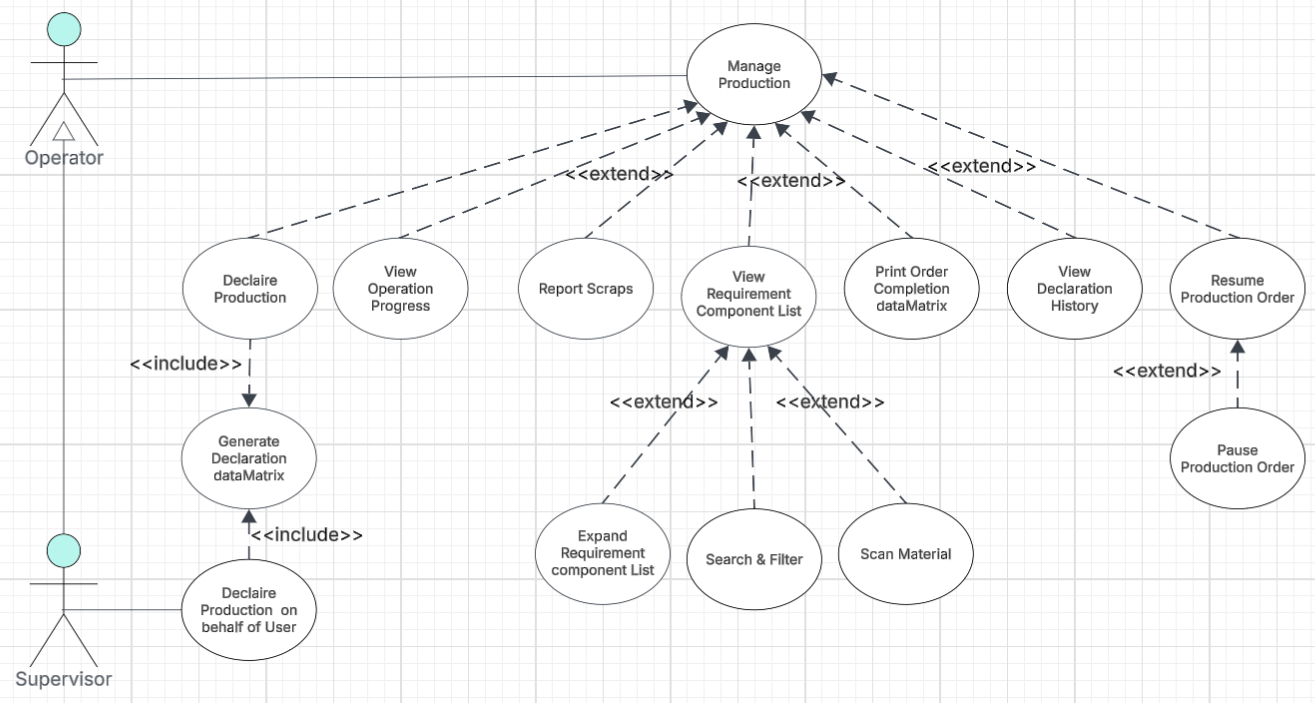
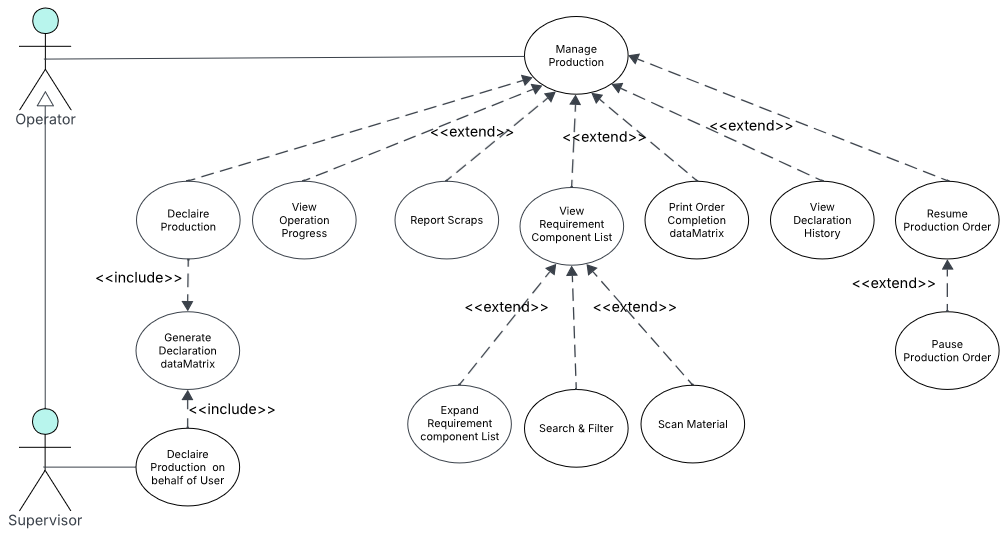
fixes all around
[sync_sprints:auto]

diff --git a/source/sprint3.tex b/source/sprint3.tex
@@ -43,9 +43,9 @@ This sprint covers \textbf{Domain 3:} \textbf{\domainterm{Production Execution \
 		\item Create table \techname{MES Operation Progression}.
 		\item Create the functions:
 		\begin{itemize}[nosep, leftmargin=*]
-			\item \texttt{TryDeclareProduction()} in codeunit \techname{MESMachineValidation}.
-			\item \texttt{InsertNewProgressionCycle()} in codeunit \techname{MESMachineInsert}.
-			\item \texttt{declareProduction()} in codeunit \techname{MESMachineWrite}.
+			\item \texttt{TryDeclareProduction()} in codeunit \techname{MES Machine Validation}.
+			\item \texttt{InsertNewProgressionCycle()} in codeunit \techname{MES Machine Insert}.
+			\item \texttt{declareProduction()} in codeunit \techname{MES Machine Write}.
 		\end{itemize} 
 		\item Expose \texttt{declareProduction()} through the codeunit \techname{MES Web Service}.
 		\item Create page \techname{MES Operation Progression} list page.
@@ -53,7 +53,7 @@ This sprint covers \textbf{Domain 3:} \textbf{\domainterm{Production Execution \
 	\\ & &
 	\noindent\textit{Flutter:}
 	\begin{itemize}[nosep, leftmargin=*]
-		\item Updated \techname{ErpMachineOrdersService} to consume the \texttt{declareProduction} endpoint and \techname{MachineordersProvider} to manage it.
+		\item Updated \techname{ErpMachineOrdersService} to consume the \texttt{declareProduction} endpoint and \techname{MachineOrdersProvider} to manage it.
 	\end{itemize}
 	\\ & &
 	\noindent\textit{Flutter(continuation):}
@@ -70,8 +70,8 @@ This sprint covers \textbf{Domain 3:} \textbf{\domainterm{Production Execution \
 	\begin{itemize}[nosep, leftmargin=*]
 		\item Create the functions:
 		\begin{itemize}[nosep, leftmargin=*] 
-			\item \texttt{TryPauseOperation()} and \texttt{TryResumeOperation()} in codeunit \techname{MESMachineValidation}.
-			\item \texttt{ExecuteOperationTransition()}, \texttt{pauseOperation()}, and \texttt{resumeOperation()} in codeunit \techname{MESMachineWrite}. 
+			\item \texttt{TryPauseOperation()} and \texttt{TryResumeOperation()} in codeunit \techname{MES Machine Validation}.
+			\item \texttt{ExecuteOperationTransition()}, \texttt{pauseOperation()}, and \texttt{resumeOperation()} in codeunit \techname{MES Machine Write}. 
 		\end{itemize}
 		\item Expose \texttt{pauseOperation()} and \texttt{resumeOperation()} throught codeunit \techname{MES Web Service}.
 	\end{itemize}
@@ -79,10 +79,10 @@ This sprint covers \textbf{Domain 3:} \textbf{\domainterm{Production Execution \
 	\noindent\textit{Flutter:}
 	\begin{itemize}[nosep, leftmargin=*]
 		\item Implement \techname{ErpMachineOrdersService} to consume the new endpoints 
-		\item Implement \techname{MachineordersProvider} to manage its state.
+		\item Implement \techname{MachineOrdersProvider} to manage its state.
 		\item Create widget \techname{OperationActionButtons}.
 		\item Implement pause/resume operation toggle handling in \techname{OrdersProgressionPage}.
-	\end{itemize} \\
+	\end{itemize} \\	
 	\midrule
 	\textbf{US-3.3}
 	& As a \userrole{Supervisor}, I need to finish, interrupt or cancel a production
@@ -92,10 +92,10 @@ This sprint covers \textbf{Domain 3:} \textbf{\domainterm{Production Execution \
 	\begin{itemize}[nosep, leftmargin=*]
 		\item Create the functions:
 		\begin{itemize}[nosep, leftmargin=*]
-			\item \texttt{TryCloseOperation()} in codeunit \techname{MESMachineValidation}.
-			\item \texttt{InsertOperationStatus()}, \texttt{SetErpOrderToFinish()}, \texttt{InsertStartMESMachineStatus()}  and \texttt{InsertIdleMachineStatus()} in codeunit \techname{MESMachineInsert}.
-			\item \texttt{finishOperation()} and \texttt{cancelOperation()} in codeunit \techname{MESMachineWrite}.
-			\item \texttt{ExecuteCancelUnstartedOperation()} in codeunit \techname{MESMachineWrite}.
+			\item \texttt{TryCloseOperation()} in codeunit \techname{MES Machine Validation}.
+			\item \texttt{InsertOperationStatus()}, \texttt{SetErpOrderToFinish()}, \texttt{InsertStartMESMachineStatus()}  and \texttt{InsertIdleMachineStatus()} in codeunit \techname{MES Machine Insert}.
+			\item \texttt{finishOperation()} and \texttt{cancelOperation()} in codeunit \techname{MES Machine Write}.
+			\item \texttt{Execute\-Cancel\-Unstarted\-Operation()} in codeunit \techname{MES Machine Write}.
 		\end{itemize}
 		\item Expose \texttt{finishOperation()} and \texttt{cancelOperation()} in codeunit \techname{MES Web Service}.
 	\end{itemize}
@@ -114,8 +114,8 @@ This sprint covers \textbf{Domain 3:} \textbf{\domainterm{Production Execution \
 	& \noindent\textit{Business Central (AL):}
 	\begin{itemize}[nosep, leftmargin=*]
 		\item Create table \techname{MES Operation Execution}.
-		\item Create function \texttt{InsertMESOperationExecution()} in codeunit \techname{MESMachineInsert}.
-		\item Create function \texttt{fetchOperationLiveData()} in codeunit \techname{MESMachineFetch}.
+		\item Create function \texttt{InsertMESOperationExecution()} in codeunit \techname{MES Machine Insert}.
+		\item Create function \texttt{fetchOperationLiveData()} in codeunit \techname{MES Machine Fetch}.
 		\item Expose \texttt{fetchOperationLiveData()} through codeunit \techname{MES Web Service}.
 		\item Create page \techname{MES Operation Execution}.
 	\end{itemize}
@@ -137,7 +137,7 @@ This sprint covers \textbf{Domain 3:} \textbf{\domainterm{Production Execution \
 	declaration's information.
 	& \noindent\textit{Business Central (AL):}
 	\begin{itemize}[nosep, leftmargin=*]
-		\item Create function \texttt{fetchProductionCycles()} in codeunit \techname{MESMachineFetch}.
+		\item Create function \texttt{fetchProductionCycles()} in codeunit \techname{MES Machine Fetch}.
 		\item Expose \texttt{fetchProductionCycles()} throught codeunit \techname{MES Web Service}.
 	\end{itemize}
 \\ & &
@@ -167,7 +167,7 @@ This sprint covers \textbf{Domain 3:} \textbf{\domainterm{Production Execution \
 	available in the inventory.
 	& \noindent\textit{Business Central (AL):}
 	\begin{itemize}[nosep, leftmargin=*]
-		\item Create function \texttt{fetchBom()} in codeunit \techname{MESMachineFetch}.
+		\item Create function \texttt{fetchBom()} in codeunit \techname{MES Machine Fetch}.
 		\item Expose \texttt{fetchBom()} through codeunit \techname{MES Web Service}.
 		
 	\end{itemize}
@@ -287,7 +287,7 @@ in the intended business flow. The resulting use case diagram is shown in Figure
 \begin{figure}[H]
   \centering
   \includegraphics[width=\linewidth,keepaspectratio]{./media/MES_Sprint-3-Repport/diagrams/useCase/sprint3-1.png}
-  \caption{UML Use Case Diagram --- Sprint 3 (manage production)}
+  \caption{UML Use Case Diagram --- Sprint 3 (Production Execution)}
   \label{fig:s3-uc-manage-production}
 \end{figure}
 
@@ -322,7 +322,7 @@ in the intended business flow. The resulting use case diagram is shown in Figure
 	\begin{itemize}[nosep, leftmargin=*]
 	\item The user is authenticated and navigated to an Operation Detail page.
 	\item The operation status is \domainterm{Running}.
-	\item The produced quantity is below the remaining scanned quantity.
+	\item The quantity produced is below the requested quantity.
 	\end{itemize} \\
 	\midrule
 	\textbf{Postconditions} & 
@@ -337,7 +337,8 @@ in the intended business flow. The resulting use case diagram is shown in Figure
 	\item The user taps \uilabel{Declare Production} in the Quick Actions panel.
 	\item The \techname{DeclareProductionDialog} opens showing the remaining quantity.
 	\item The user (if Supervisor) optionally selects an operator from the dropdown to declare on behalf of.
-	\item The user enters a positive integer not exceeding the remaining scanned quantity.
+	\item The user must enter a positive integer less than or equal to the remaining requested quantity, 
+	and the remaining scanned component quantity must be sufficient to support the entered production quantity.
 	\item The user taps \uilabel{Submit}.
 	\item The ERP validates the quantity and inserts the progression record.
 	\item The user is redirected to the declaration lable print page
@@ -834,7 +835,7 @@ simultaneously: one polling the current operation status and quantities from
 \techname{Business Central} (SD-18), one consuming the production-cycle stream
 (SD-22), and one consuming the BOM stream (SD-21). The \techname{Flutter}
 client merges all three data sources and renders the full detail view. If the
-operation is finished, cancelled, or interrupted, the live-data stream
+operation is finished, cancelled, or interrupted, the request
 returns an empty response and the client falls back to the history view.
 
 \begin{figure}[H]
@@ -1107,10 +1108,9 @@ Figures~\ref{fig:s3-ui-op-detail-running} through~\ref{fig:s3-ui-op-detail-cance
 across its possible states. Each view adapts its action buttons and status badge
 to the current state, while the production chart, cycle table, and BOM list remain consistently visible. On desktop, the page 
 uses a two-column layout with order information and production data on the left, and the \uilabel{Quick Actions} panel on the
-right; on mobile, these sections stack vertically. Action button availability is state-dependent: \uilabel{Declare Production} 
-and \uilabel{Declare Scrap} are disabled in the Paused, Finished, and Cancelled states; the close button triggers a 
-\uilabel{Finish Production Order} or \uilabel{Interrupt Production Order} action depending on whether the progress has reached 100\%;
-and \uilabel{Print Label} is enabled only once the operation is finished.
+right; on mobile, these sections stack vertically. Action and Scan button availability is state-dependent. All action buttons 
+are disabled when the operation is in the Paused, Finished, Canceled, or Interrupted state. The only exception is the Print 
+Label button, which remains available when the operation is Finished.
 
 \begin{figure}[H]
     \centering
@@ -1154,7 +1154,7 @@ For integration testing, we chose Postman, a powerful and user-friendly tool for
 \addcontentsline{toc}{section}{Conclusion}
 
 This sprint delivered the complete shop-floor execution loop for the MES system.
-Operators can now start, pause, resume, interrupt and close production operations, declare
+Operators can now pause, resume, interrupt and close production operations, declare
 production output cycle by cycle, track cumulative progress through real-time
 charts and paginated tables, inspect the Bill of Materials, scan physical components
 via barcodes, declare scrapped units with reason codes, and print

diff --git a/source/chapter2.tex b/source/chapter2.tex
@@ -44,10 +44,12 @@ will interact with our system:
 	administration application dashboards. \\[6pt]
 
 	Supervisor     &
-	This is an intermediate user. They can monitor the progress of production operations
-	on their work centre, view machine status and track the progress of production
-	orders. Mark operation as finished or cancel/interupt uneeded operations. 
-	View machine dashboards. Have access to all the access of the operators \\[6pt]
+	An intermediate user who is a superset of the Operator role. In addition to their 
+	own access, they inherit all Operator permissions. They can monitor the progress 
+	of production operations on their work centre, view machine status, and track 
+	the progress of production orders. They can mark operations as finished, cancel, 
+	or interrupt unneeded operations, view machine dashboards, and declare on behalf 
+	of an Operator. \\[6pt]
 
 	Operator       &
 	This is the end user of the MES application. Assigned to a work centre
@@ -83,9 +85,10 @@ solution meets these functional requirements.
 
 	\item \textbf{User Management}: This feature allows the administrator to:
 	      \begin{itemize}
-	      	\item View the complete list of MES users.
+	      	\item View the list of MES users.
+	      	\item Export the list of users.
 	      	\item Create a new user account by linking it to a Business
-	      	      Central employee and assigning them a role and work centre(s) if needed.
+	      	      Central employee and assigning them a role and work centre(s).
 	      	\item Generate and assign a temporary password.
 	      	\item Activate or deactivate an account (automatic revocation of active tokens).
 	      	\item Change a user's role (Operator, Supervisor, Administrator) and work centre assignment.
@@ -344,7 +347,7 @@ these non-functional requirements:
 	As an \userrole{Administrator}, I need to export the list of users so that
 	I can use the information in other applications or processes.
 	& \begin{itemize}[nosep, leftmargin=*]
-	\item The ability to export all user info.
+	\item The ability to export users.
 	\item The information is structured in the form of an excel file.
 	\end{itemize} &
 	Medium \\
@@ -394,8 +397,8 @@ these non-functional requirements:
 	& \begin{itemize}[nosep, leftmargin=*]
 	\item Only \domainterm{Planned}, \domainterm{Firm Planned}, or
 	\domainterm{Released} orders are shown.
-	\item Each card displays order number, item description, planned quantity,
-	planned start and end dates, operation description, and operation number.
+	\item Each card displays order number, product description, planned quantity,
+	planned start and end dates, and operation description.
 	\end{itemize} &
 	High \\
 	\midrule
@@ -405,15 +408,12 @@ these non-functional requirements:
 	production operation so that the system reflects the change.
 	& \begin{itemize}[nosep, leftmargin=*]
 	\item Only \domainterm{operation} from \domainterm{Released} orders may be started.
-	\item An operation cannot be started if it is already running.
-	\end{itemize} & High \\ & &
-	\begin{itemize}[nosep, leftmargin=*]
 	\item A machine cannot run two operations simultaneously.
 	\item A new MES Operation State record is created with status change so it can be tracked.
 	\item The previous operation in the same production order (if any) must be
 	\domainterm{Finished}, \domainterm{Interrupted}, or currently \domainterm{Running}
 	with enough send-ahead quantity.
-	\end{itemize} & \\ \midrule
+	\end{itemize} & High\\ \midrule
 
 	\textbf{US-2.4} &
 	As a \userrole{Supervisor} or \userrole{Operator}, I need to monitor the
@@ -445,11 +445,9 @@ these non-functional requirements:
 	\item Orders can be searched by order number, item description, or date.
 	\item Orders can be filtered by status (\domainterm{All}, \domainterm{Planned},
 	\domainterm{Firm Planned}, \domainterm{Released}).
-	\end{itemize} & High \\ & &
-	\begin{itemize}[nosep, leftmargin=*]
-		\item Orders can be sorted by planned start date ascending or descending.
+	\item Orders can be sorted by planned start date ascending or descending.
 	\item On mobile, the status filter is accessible via a compact popup menu.
-	\end{itemize} &  \\ \midrule
+	\end{itemize} & High \\ \midrule
 
 	\textbf{US-2.7} &
 	As a \userrole{Supervisor} or \userrole{Operator}, I need to view the
@@ -515,8 +513,8 @@ these non-functional requirements:
 	the machine is released and the order is closed in the system.
 	&
 	\begin{itemize}[nosep, leftmargin=*]
-	\item Finishing a complete order (100\%) shows a green confirmation dialog.
-	\item Interrupting or Cancelling an operation shows a red warning dialog.
+	\item Finishing a complete order (100\%) shows a confirmation dialog.
+	\item Interrupting or Cancelling an operation shows a warning dialog.
 	\item If the operation is started then it is marked as interrupted otherwise as cancelled
 	\item Closing sets the execution end time and inserts an Idle machine status.
 	\end{itemize}
@@ -561,7 +559,7 @@ these non-functional requirements:
 	available in the inventory.&
 	\begin{itemize}[nosep, leftmargin=*]
 	\item Components are colour-coded by remaining amount (the needed amount (green) / less then necessary to make a single item (red) otherwise (yellow)).
-	\item BOM data refreshes after every consumption event.
+	\item BOM data updates after every consumption event.
 	\item can be expanded to a dialog for a better view on larger screens.
 	\item search by name and filter by state
 	\end{itemize}
@@ -829,8 +827,7 @@ functional increment verified by a sprint review with the professional superviso
 	supervisor proxy declaration, and label printing. \\ \midrule
 
 	Sprint~4        & Administration and System Monitoring \& Configuration              &
-	Monitoring dashboard and Administrator activity log, barcode view and printing, user
-	export, multi-language support (EN/FR/AR) and RTL layout, in-app onboarding tutorials. \\ \midrule
+	Monitoring dashboard and Administrator activity log, barcode view and printing, multi-language support (EN/FR/AR) and RTL layout, in-app onboarding tutorials. \\ \midrule
 
 	Sprint~5        & AI Assistant \& Analytical Intelligence           &
 	Natural-language chat assistant, \techname{Node.js} reverse proxy middleware,
@@ -898,7 +895,7 @@ The back-end is structured in five layers:
 	\item \textbf{Tables (1-Tables)}: define the persistent data model; 
 	MES User, MES Auth Token, MES Machine Status, MES Operation State, 
 	MES Operation Scrap, MES Operation Execution, MES Operation Progression,
-	MES Settings, MES Component Scan, and MES User Execution Interaction.
+	MES Settings, MES Operation Scan, MES User Work center, and MES User Execution Interaction.
 	\item \textbf{Enums (2-Enum)}: define the enumerated types; MES User 
 	Role (Operator, Supervisor, Admin), MES Machine Status (Idle, Working), 
 	MES Operation State (Running, Paused, Finished, Cancelled, Interrupted), 

diff --git a/source/sprint4.tex b/source/sprint4.tex
@@ -413,14 +413,15 @@ responses.
   \label{fig:s4-ui-machine-dashboard}
 \end{figure}
 
-Figures~\ref{fig:s4-ui-machine-dashboard} and~\ref{fig:s4-ui-activity-log} illustrate
-the two pages. The \uilabel{Machine Dashboard Page} renders one card per machine
+Figures~\ref{fig:s4-ui-machine-dashboard}, ~\ref{fig:s4-ui-barcode}, and~\ref{fig:s4-ui-activity-log} illustrate
+the three pages. The \uilabel{Machine Dashboard Page} renders one card per machine
 with a circular uptime indicator and four metric rows (finished operations, 
 Cancelled and Interrupted operations, produced, scrap, uptime), and
 an AppBar time-range dropdown that re-fetches on change. The \uilabel{Activity Log Page}
 presents a paginated, newest-first event list where each row shows a type icon, 
 operator, machine, time, order, operation number and action ; AppBar dropdowns filter by type and 
-time range.
+time range. The \uilabel{Barcode Page} presents a searchable list of all items with their associated
+barcodes rendered as DataMatrix codes.
 
 \begin{figure}[H]
   \centering
@@ -428,6 +429,14 @@ time range.
   \caption{\uilabel{Activity Log Page} --- desktop and mobile views.}
   \label{fig:s4-ui-activity-log}
 \end{figure}
+
+\begin{figure}[H]
+  \centering
+  \includegraphics[height=0.3\textheight,keepaspectratio]{./media/MES_Sprint-4-Report/UI/barcode/wide.png}
+  \caption{\uilabel{Barcode Page} --- desktop and mobile views.}
+  \label{fig:s4-ui-barcode}
+\end{figure}
+
 \section{Test and validation}
 \subsection*{Integration test}
 

diff --git a/source/sprint2.tex b/source/sprint2.tex
@@ -845,7 +845,7 @@ shows the desktop and mobile views.
 \section{Testing and Validation}
 \subsection*{Integrations tests}
 For integration testing, we chose Postman, a powerful and user-friendly tool for endpoint evaluation.
-Figure~\ref{fig:s2-test-postman-fetchMachines} shows a test case for the \apiendpoint{/fetchmachines} endpoint.
+Figure~\ref{fig:s2-test-postman-fetchMachines} shows a test case for the \apiendpoint{/fetchMachines} endpoint.
 
 \begin{figure}[H]
   \centering
@@ -874,7 +874,7 @@ This sprint successfully delivered the machine monitoring and production order
 management foundation of the \domainterm{MES} application.On the backend, two
 new append-only tables (\modulename{MES Machine Status} and
 \modulename{MES Operation State}) and dedicated codeunits
-(\modulename{MES Machine Fetch} and \modulename{MES Machine Write}) were
+(\modulename{MES Machine Fetch}, \modulename{MES Machine Validation} and \modulename{MES Machine Write}) were
 implemented in \techname{Business Central AL}, exposing five \domainterm{OData V4}
 endpoints that cover the full machine and operation lifecycle. The append-only design ensures a complete, tamper-evident
 audit trail of every state transition without requiring any record modification.

diff --git a/source/sprint1.tex b/source/sprint1.tex
@@ -1060,7 +1060,7 @@ the service class to propagate structured exceptions to the
 The class declaration and \uilabel{fetch users} method send a request to 
 the \apiendpoint{/fetchAllMesUsers} endpoint and parses the response into a list
 of \modulename{MesUser} model objects. The \uilabel{create user} method 
-sends a request to the \apiendpoint{/AdminCreateMesUser} endpoint with the 
+sends a request to the \apiendpoint{/AdminCreateUser} endpoint with the 
 new user's role and employee reference in the request body. The 
 \uilabel{generate password} method handle the password generation endpoint
 and map the result into the \modulename{GeneratedPassword} model.
